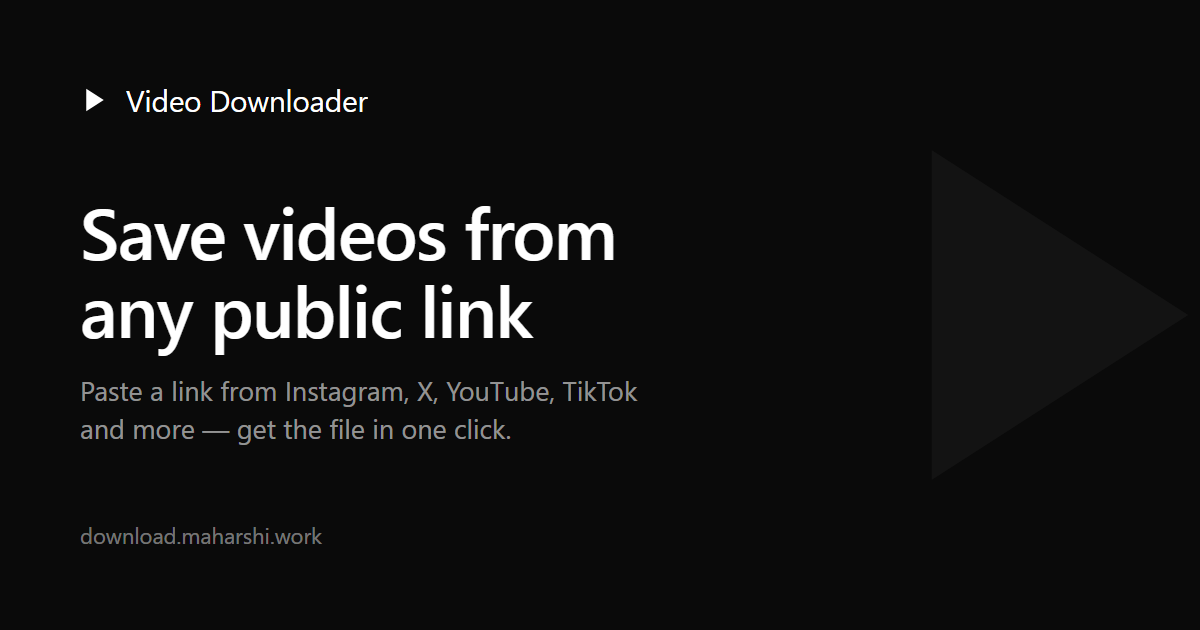
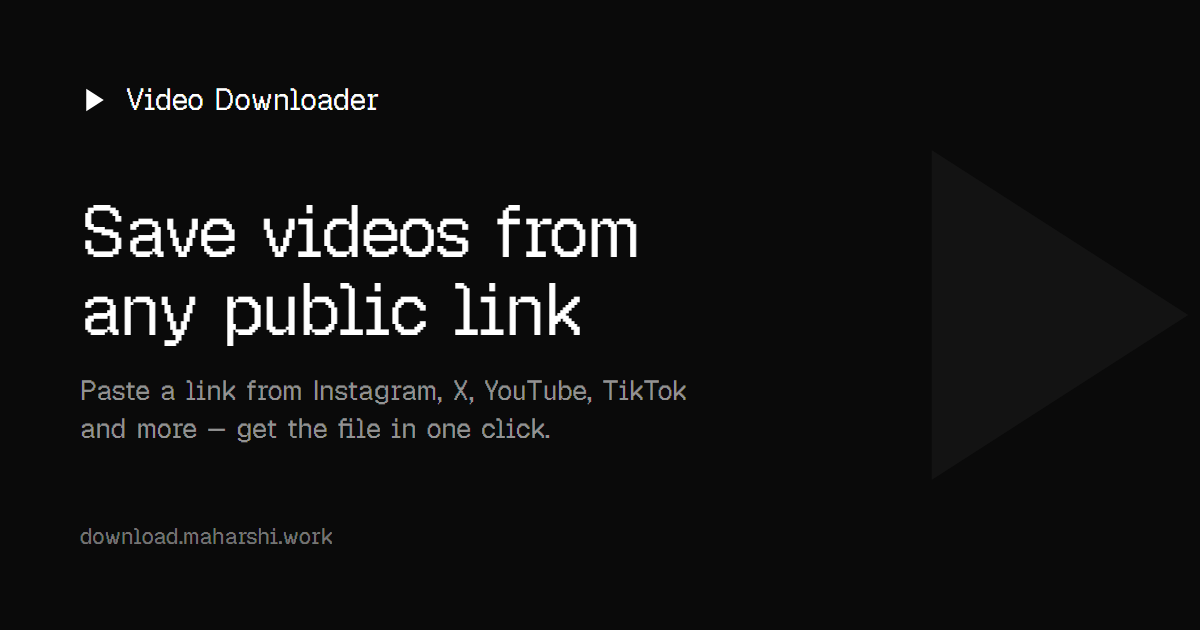
seo: render og card with Geist Pixel font

diff --git a/public/og-card.html b/public/og-card.html
@@ -2,10 +2,14 @@
 <html lang="en">
 <head>
 <meta charset="UTF-8">
-<link rel="preconnect" href="https://fonts.googleapis.com">
-<link rel="preconnect" href="https://fonts.gstatic.com" crossorigin>
-<link href="https://fonts.googleapis.com/css2?family=Geist+Pixel&display=swap" rel="stylesheet">
 <style>
+  @font-face {
+    font-family: 'Geist Pixel';
+    src: url('fonts/geist-pixel.woff2') format('woff2');
+    font-weight: 400 700;
+    font-style: normal;
+    font-display: block;
+  }
   * { margin: 0; padding: 0; box-sizing: border-box; }
   html, body { width: 1200px; height: 630px; overflow: hidden; background: #0A0A0A; }
   body {
